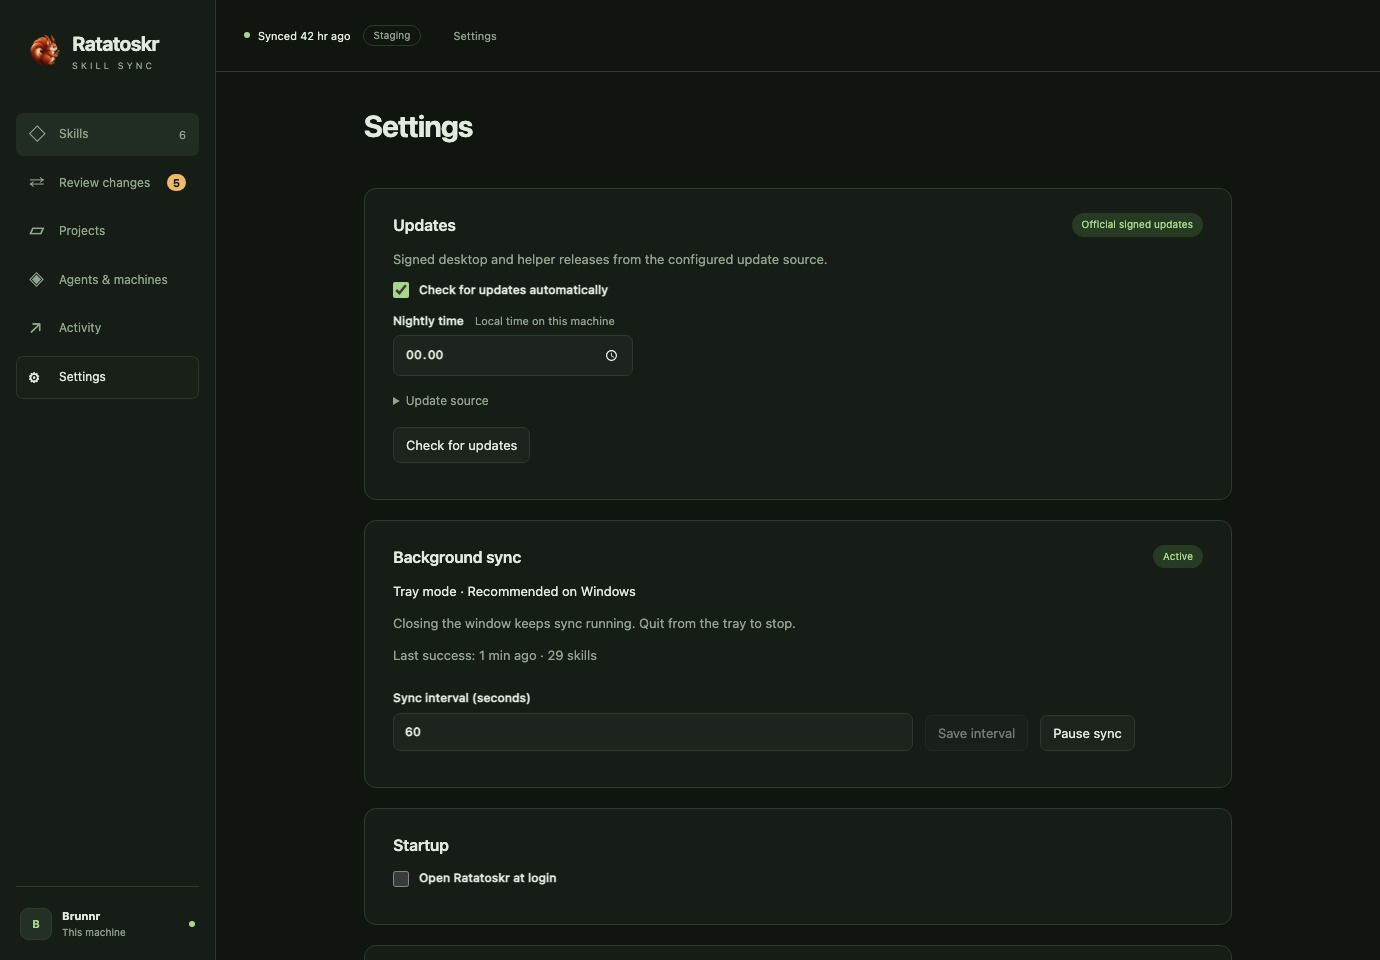
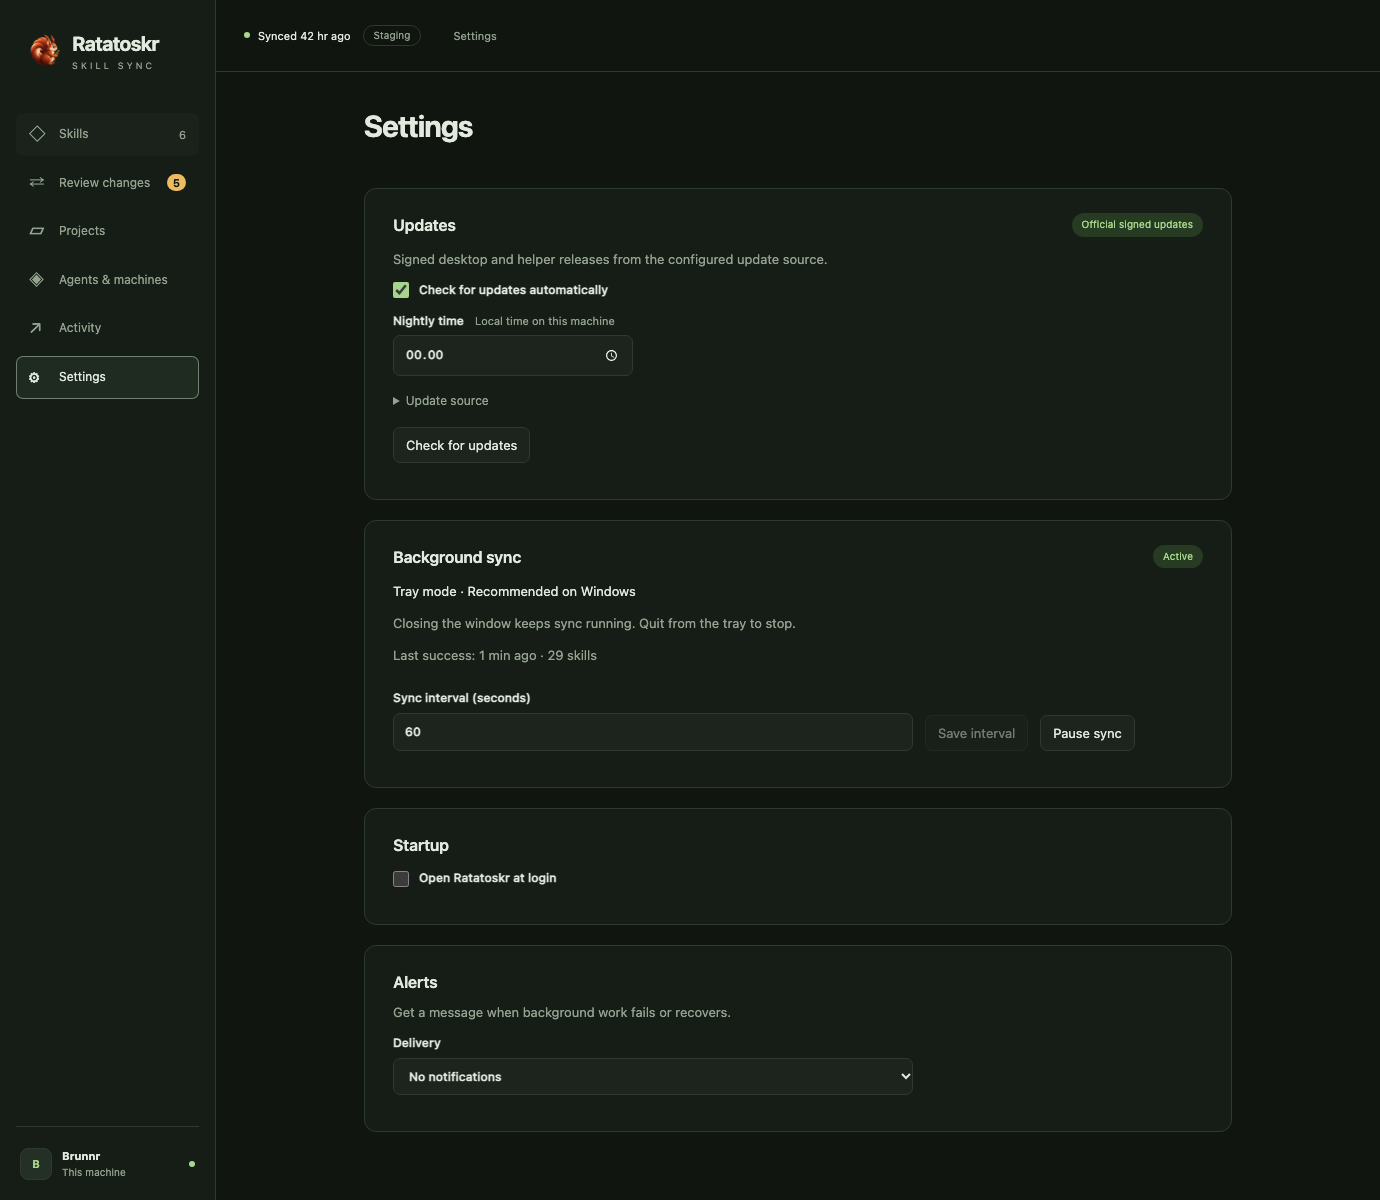
Verify identical launchd bytes and capture full tray settings

diff --git a/desktop/e2e/windows-tray.spec.ts b/desktop/e2e/windows-tray.spec.ts
@@ -52,6 +52,13 @@ test("Windows tray settings in dark mode", async ({ page }) => {
       .locator("body")
       .evaluate((body) => getComputedStyle(body).backgroundColor),
   ).toBe("rgb(16, 21, 16)");
+  await page.setViewportSize({
+    width: 1380,
+    height: Math.max(
+      960,
+      await page.locator("main").evaluate((main) => main.scrollHeight + 72),
+    ),
+  });
   mkdirSync("../docs/screenshots", { recursive: true });
   await page.screenshot({
     path: "../docs/screenshots/windows-tray-settings-dark.png",

diff --git a/scripts/compare-macos-schedule.py b/scripts/compare-macos-schedule.py
@@ -7,7 +7,7 @@ import tempfile
 
 root = Path(__file__).resolve().parent.parent
 with tempfile.TemporaryDirectory(prefix="ratatoskr-plist-") as directory:
-    temporary = Path(directory)
+    temporary = Path(directory).resolve()
     baseline = temporary / "baseline"
     subprocess.run(["git", "worktree", "add", "--detach", str(baseline), os.environ["BASE_SHA"]], cwd=root, check=True)
     try:

diff --git a/docs/screenshots/README.md b/docs/screenshots/README.md
@@ -1,6 +1,6 @@
 # Desktop screenshots
 
-Generated by `cd desktop && npm run test:screenshots` using disposable Rust fixtures and mocked Tauri IPC. The app is dark-only. Eleven screenshots cover every main screen, the Only-for picker, realistic long frontmatter, source mode, and ntfy settings; longer panes use a taller viewport so the full shell and form remain visible.
+Generated by `cd desktop && npm run test:screenshots` using disposable Rust fixtures and mocked Tauri IPC. The app is dark-only. Twelve screenshots cover every main screen, the Only-for picker, realistic long frontmatter, source mode, and ntfy settings; longer panes use a taller viewport so the full shell and form remain visible.
 
 ## Skills
 
@@ -45,3 +45,7 @@ Generated by `cd desktop && npm run test:screenshots` using disposable Rust fixt
 ## ntfy settings
 
 ![ntfy settings, dark](ntfy-settings-dark.png)
+
+## Windows tray settings
+
+![Windows tray settings, dark](windows-tray-settings-dark.png)
